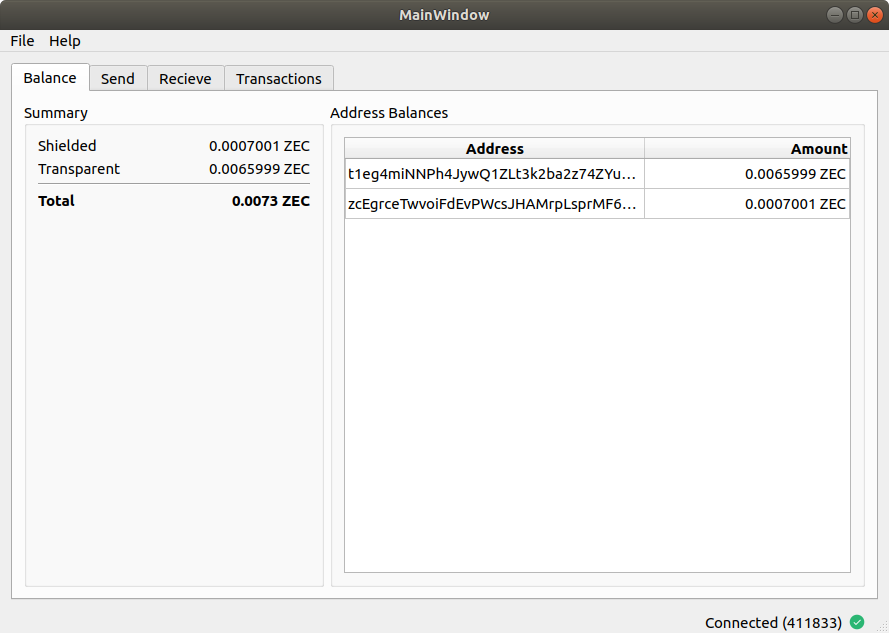
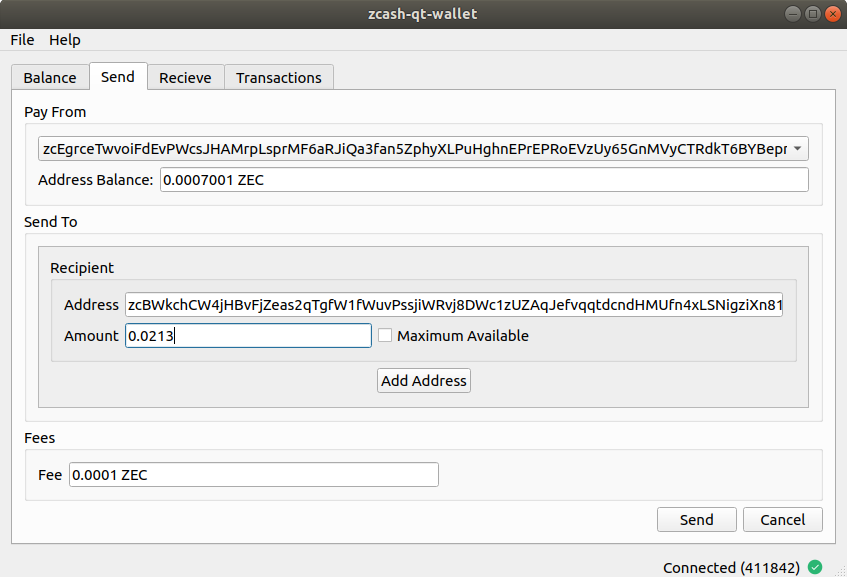
New screenshot

diff --git a/README.md b/README.md
@@ -29,7 +29,7 @@ in File->Settings.
 zcash-qt-wallet depends on QT5, which you can get from here: https://www.qt.io/download
 
 ### Compiling on Linux
-You need a C++14 compatible compiler like g++ or clang++
+You need a C++14 compatible compiler like gcc or clang++
 
 ```
 git clone https://github.com/adityapk00/zcash-qt-wallet.git
